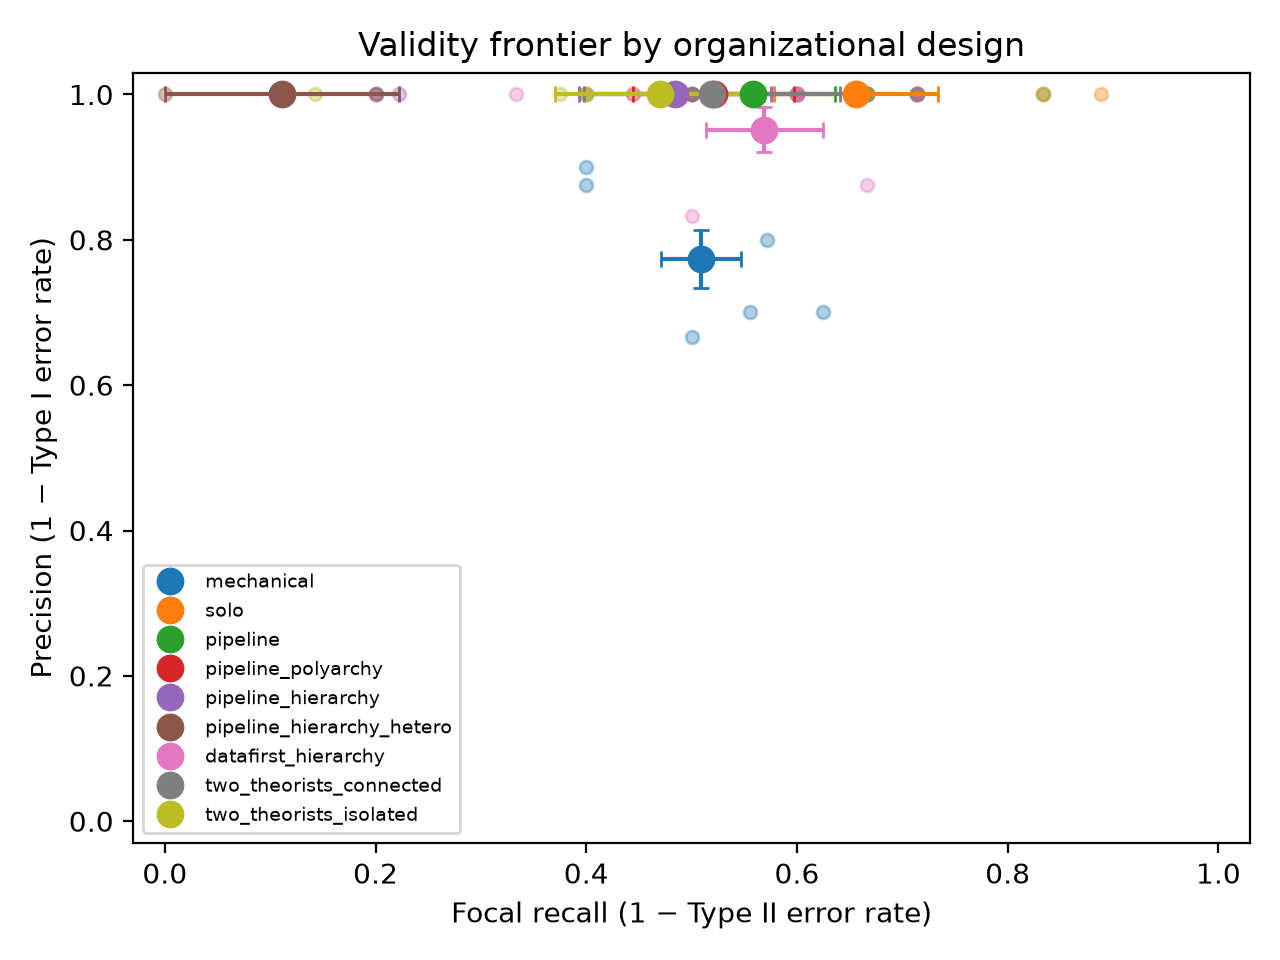
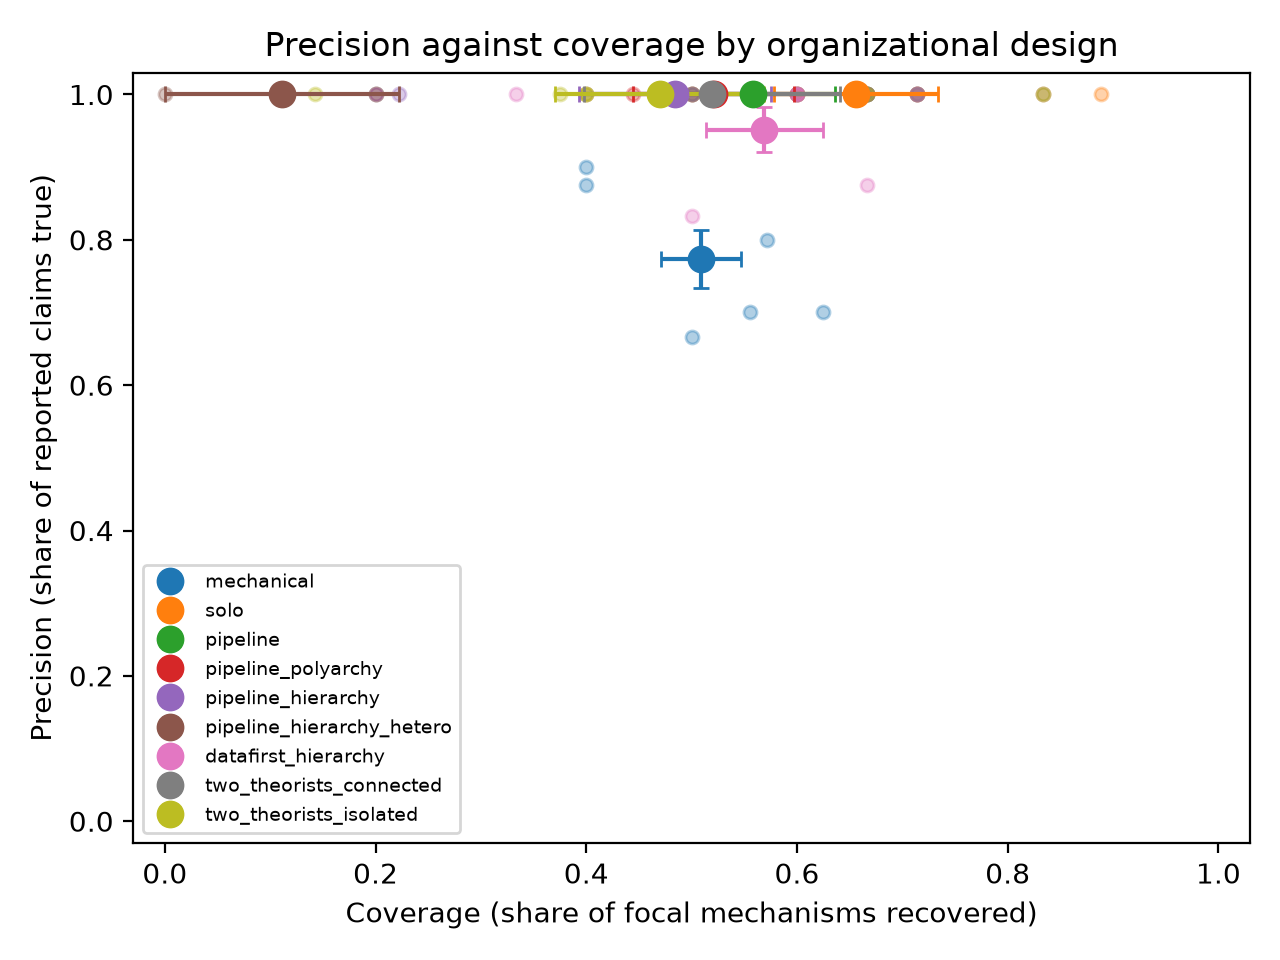
Figures: retrieval terminology on axes (coverage, precision, prior-conformity error, recovery)

diff --git a/src/oms/report.py b/src/oms/report.py
@@ -135,7 +135,7 @@ def make_report(run_dir: Path, out_dir: Path, design_order: list[str] | None = N
     colors = plt.cm.tab10(np.linspace(0, 1, 10))
     cmap = {d: colors[i % 10] for i, d in enumerate(order)}
 
-    # Fig 1: Type I vs Type II (precision vs focal recall), the evaluation-architecture frontier
+    # Fig 1: precision against coverage by design
     fig, ax = plt.subplots(figsize=(6.4, 4.8))
     for d in order:
         sub = df[df["design"] == d]
@@ -144,22 +144,22 @@ def make_report(run_dir: Path, out_dir: Path, design_order: list[str] | None = N
         x, y = sub["focal_recall"].astype(float), sub["precision"].astype(float)
         ax.scatter(x, y, s=22, alpha=0.35, color=cmap[d])
         ax.errorbar(x.mean(), y.mean(), xerr=_se(x), yerr=_se(y), fmt="o", ms=9, color=cmap[d], label=d, capsize=3)
-    ax.set_xlabel("Focal recall (1 − Type II error rate)")
-    ax.set_ylabel("Precision (1 − Type I error rate)")
+    ax.set_xlabel("Coverage (share of focal mechanisms recovered)")
+    ax.set_ylabel("Precision (share of reported claims true)")
     ax.set_xlim(-0.03, 1.03); ax.set_ylim(-0.03, 1.03)
-    ax.set_title("Validity frontier by organizational design")
+    ax.set_title("Precision against coverage by organizational design")
     ax.legend(fontsize=7, loc="lower left")
     fig.tight_layout(); fig.savefig(out_dir / "fig1_validity_frontier.png", dpi=200); plt.close(fig)
 
     # Fig 2: confident-false ("Potemkin") rate and consensus conformity in contrarian worlds
     fig, axes = plt.subplots(1, 2, figsize=(10, 4.2))
     _bar(axes[0], df, "confident_false_rate", order, cmap, "Confident-false rate (all worlds)")
-    _bar(axes[1], contr, "consensus_conformity", order, cmap, "Consensus conformity (contrarian worlds)")
+    _bar(axes[1], contr, "consensus_conformity", order, cmap, "Prior-conformity error (contrarian worlds)")
     fig.tight_layout(); fig.savefig(out_dir / "fig2_slop_and_conformity.png", dpi=200); plt.close(fig)
 
     # Fig 3: discovery of unpublished truths and calibration
     fig, axes = plt.subplots(1, 2, figsize=(10, 4.2))
-    _bar(axes[0], df, "discovery_rate", order, cmap, "Discovery rate (unpublished focal truths)")
+    _bar(axes[0], df, "discovery_rate", order, cmap, "Recovery of unpublished focal truths")
     _bar(axes[1], df, "brier", order, cmap, "Brier score (lower is better)")
     fig.tight_layout(); fig.savefig(out_dir / "fig3_discovery_calibration.png", dpi=200); plt.close(fig)
 
